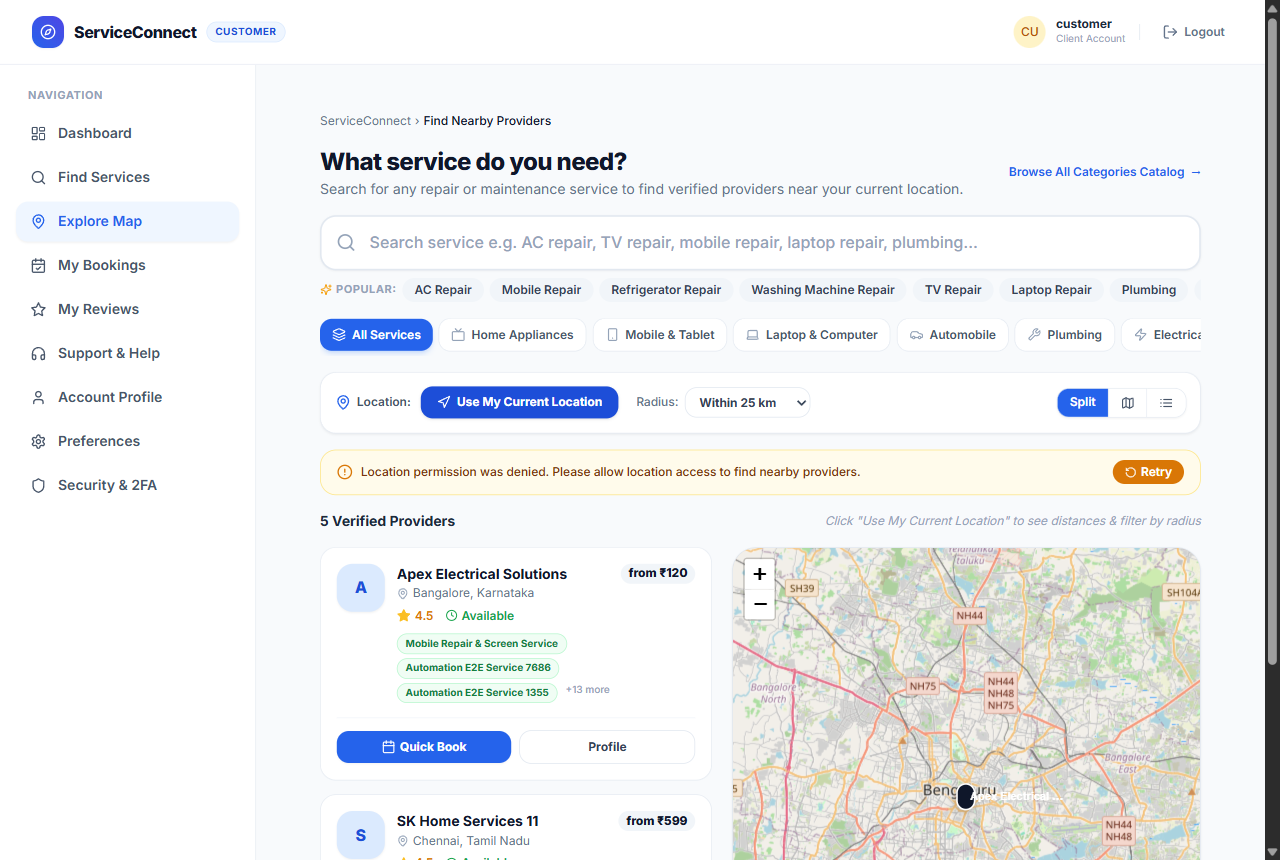
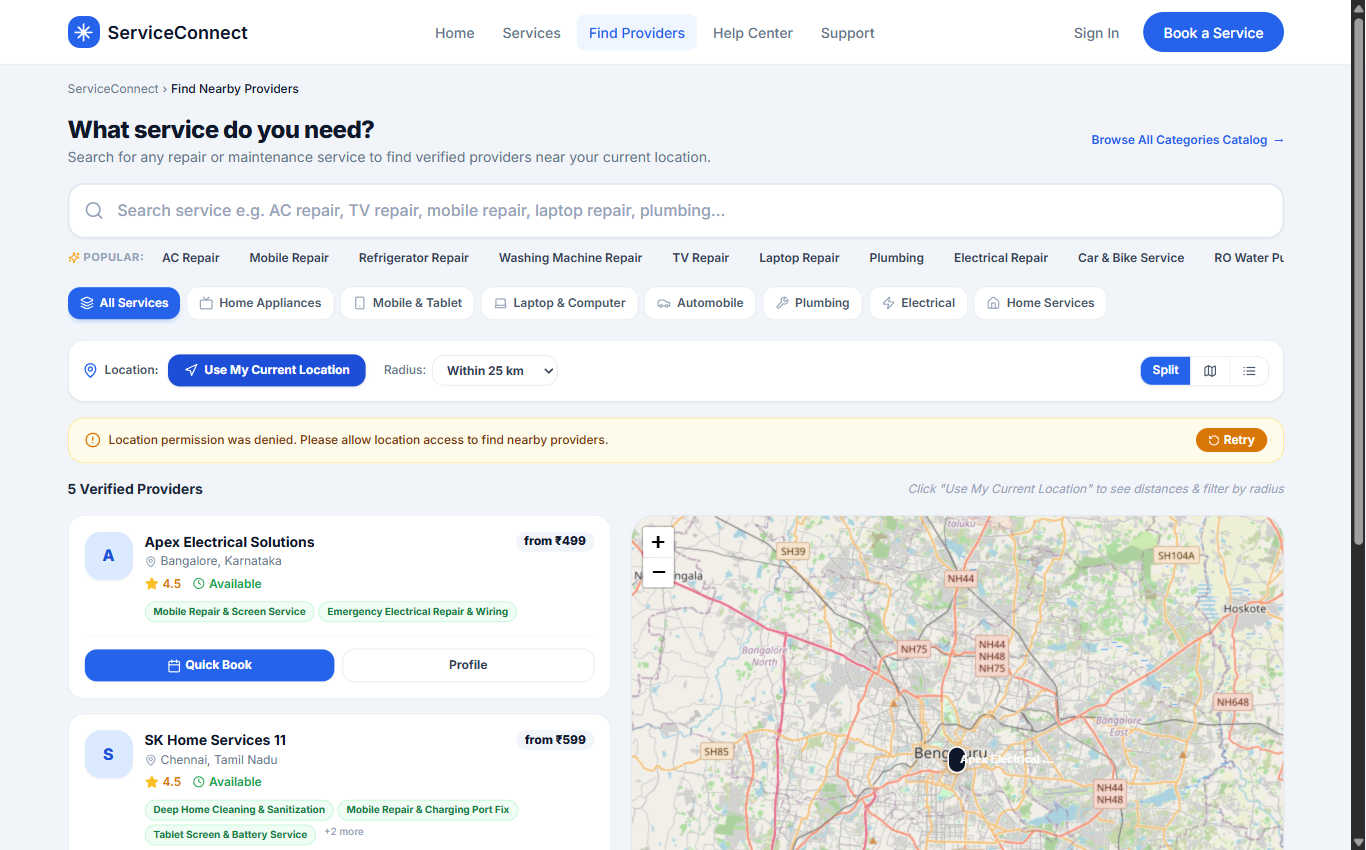
fix(location): resolve geolocation timeout on desktop with standard accuracy fallback

diff --git a/Front-End/src/pages/public/ProviderDiscovery.tsx b/Front-End/src/pages/public/ProviderDiscovery.tsx
@@ -74,7 +74,7 @@ const createProviderIcon = (name: string, isSelected: boolean) =>
 
 // Custom Leaflet DivIcon for customer's current location
 const userIcon = new L.DivIcon({
-  className: '',
+  className: 'customer-location-marker',
   html: '<div style="width:18px;height:18px;background:#2563EB;border:3px solid white;border-radius:50%;box-shadow:0 2px 10px rgba(37,99,235,0.8)"></div>',
   iconSize: [18, 18],
   iconAnchor: [9, 9],
@@ -165,58 +165,69 @@ export default function ProviderDiscovery() {
     setLocationStatus('locating')
     setLocationError('')
 
-    navigator.geolocation.getCurrentPosition(
-      (pos) => {
-        const lat = pos.coords.latitude
-        const lng = pos.coords.longitude
+    const tryGetPosition = (highAccuracy: boolean) => {
+      navigator.geolocation.getCurrentPosition(
+        (pos) => {
+          const lat = pos.coords.latitude
+          const lng = pos.coords.longitude
 
-        // Validate real numeric coordinates
-        if (typeof lat !== 'number' || typeof lng !== 'number' || isNaN(lat) || isNaN(lng)) {
-          setIsLocating(false)
-          setLocationStatus('error')
-          setLocationError('Unable to get valid coordinates from your browser. Please try again.')
-          setActiveCustomerLocation(null)
-          return
-        }
+          // Validate real numeric coordinates
+          if (typeof lat !== 'number' || typeof lng !== 'number' || isNaN(lat) || isNaN(lng)) {
+            setIsLocating(false)
+            setLocationStatus('error')
+            setLocationError('Unable to get valid coordinates from your browser. Please try again.')
+            setActiveCustomerLocation(null)
+            return
+          }
 
-        // Explicit geolocation logging requested by diagnosis prompt
-        console.log(`[GEOLOCATION RAW]\nlatitude: ${lat}\nlongitude: ${lng}\naccuracy: ${pos.coords.accuracy} meters\ntimestamp: ${new Date(pos.timestamp).toISOString()}`)
-        if (import.meta.env.DEV) {
-          console.log('[ServiceConnect] Current customer coordinates from browser:', {
+          // Explicit geolocation logging requested by diagnosis prompt
+          console.log(`[GEOLOCATION RAW]\nlatitude: ${lat}\nlongitude: ${lng}\naccuracy: ${pos.coords.accuracy} meters\ntimestamp: ${new Date(pos.timestamp).toISOString()}`)
+          if (import.meta.env.DEV) {
+            console.log('[ServiceConnect] Current customer coordinates from browser:', {
+              latitude: lat,
+              longitude: lng,
+              accuracy: pos.coords.accuracy,
+              source: 'browser',
+            })
+          }
+
+          setActiveCustomerLocation({
             latitude: lat,
             longitude: lng,
-            accuracy: pos.coords.accuracy,
             source: 'browser',
           })
-        }
+          setLocationStatus('granted')
+          setIsLocating(false)
+          setLocationError('')
+        },
+        (err) => {
+          // If high accuracy timed out on non-GPS hardware, retry with standard accuracy
+          if (highAccuracy && err.code === err.TIMEOUT) {
+            console.warn('[GEOLOCATION] High accuracy timed out, falling back to standard accuracy...')
+            tryGetPosition(false)
+            return
+          }
 
-        setActiveCustomerLocation({
-          latitude: lat,
-          longitude: lng,
-          source: 'browser',
-        })
-        setLocationStatus('granted')
-        setIsLocating(false)
-        setLocationError('')
-      },
-      (err) => {
-        console.warn(`[GEOLOCATION ERROR] code: ${err.code}, message: ${err.message}`)
-        setIsLocating(false)
-        setActiveCustomerLocation(null)
-        if (err.code === err.PERMISSION_DENIED) {
-          setLocationStatus('denied')
-          setLocationError('Location permission was denied. Please allow location access to find nearby providers.')
-        } else {
-          setLocationStatus('error')
-          setLocationError('Unable to get your current location. Please try again.')
-        }
-      },
-      {
-        enableHighAccuracy: true,
-        timeout: 10000,
-        maximumAge: 0, // Force fresh position, never cached
-      },
-    )
+          console.warn(`[GEOLOCATION ERROR] code: ${err.code}, message: ${err.message}`)
+          setIsLocating(false)
+          setActiveCustomerLocation(null)
+          if (err.code === err.PERMISSION_DENIED) {
+            setLocationStatus('denied')
+            setLocationError('Location permission was denied. Please allow location access to find nearby providers.')
+          } else {
+            setLocationStatus('error')
+            setLocationError('Unable to get your current location. Please try again.')
+          }
+        },
+        {
+          enableHighAccuracy: highAccuracy,
+          timeout: highAccuracy ? 8000 : 15000,
+          maximumAge: highAccuracy ? 0 : 30000,
+        },
+      )
+    }
+
+    tryGetPosition(true)
   }, [isLocating])
 
   // Sync with URL query parameter '?q='
